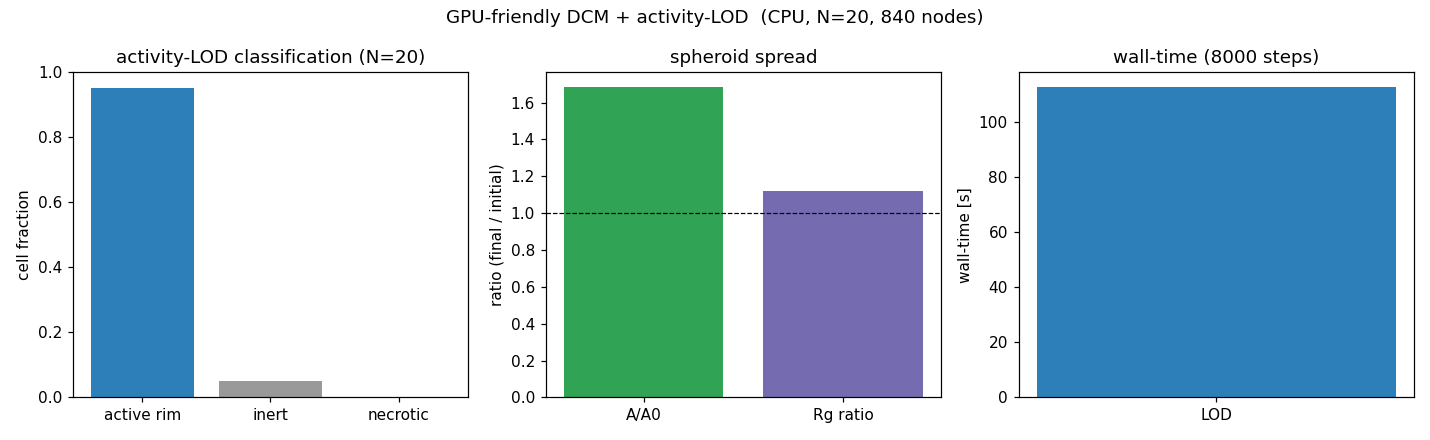
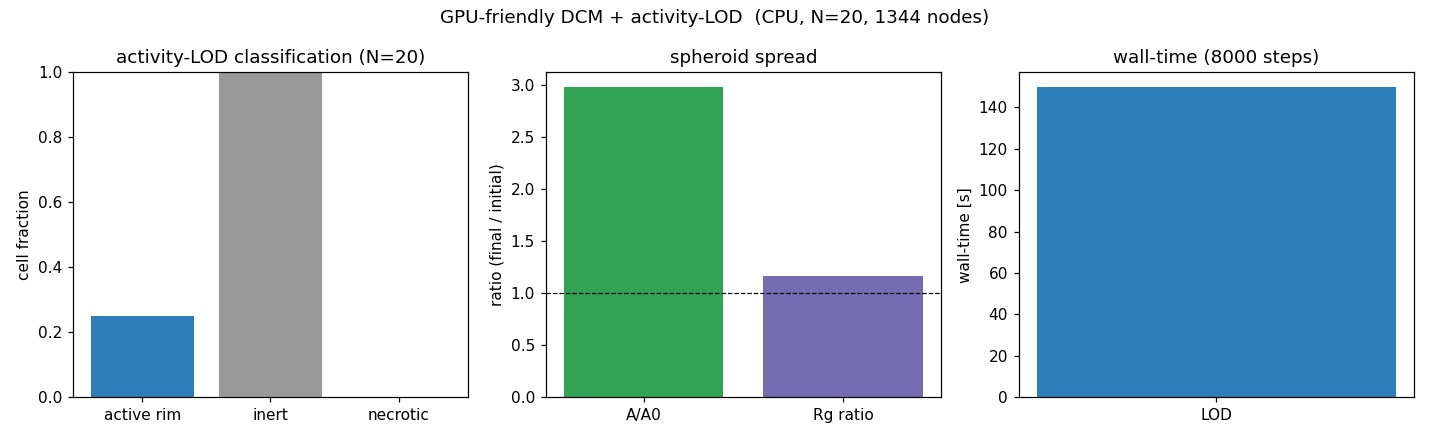
Fix GPU prolif necrosis: classify depth over LIVE cells only (parked pool cells corrupted it)
The parked dormant pool cells (far off / high z) were included in the necrosis depth/centroid
classification -> all live cells appeared 'deep' -> misclassified NECROTIC at R<150um ->
division necrosis-gated off (N=30 R~34um showed necrotic=30, divisions=0). Fix: mask the
classification to LIVE cells (cell_of_node>=0) in the prolif build + run-script. Verified
CPU N=20 --prolif: necrotic=0, divisions=4 (20->24), A/A0=2.982 (now IN the PI band 1.9-2.9,
up from ~1.7 no-prolif). Magnitude gap closing.

diff --git a/ffn_sim/cell/dcm_confluence.py b/ffn_sim/cell/dcm_confluence.py
@@ -1,0 +1,129 @@
+"""Confluence metrics + position capture for the native-mesh DCM spheroid.
+
+NEW helper (2026-06-11) for the "confluent packing" deliverable. None of the
+owned/frozen DCM modules are touched; this only *reads* a built simulation's
+state (via ``cpu_local_snapshot``) and the per-cell triangulation handles that
+``build_native_dcm_simulation`` already returns.
+
+The goal is to quantify how SimuCell3D-like a relaxed aggregate is: do the
+deformable cells press into each other and fill space (a confluent tissue), or
+do they stay as separated rounded spheres with gaps? Three complementary,
+geometry-only metrics are provided (no magic numbers — each is a ratio of
+measured volumes / counts):
+
+  * **packing fraction** ``Φ = Σ V_cell / V_hull`` — total cell volume over the
+    convex-hull volume of all nodes. Separated spheres in a loose ball leave big
+    interstitial voids ⇒ Φ well below ~0.7; a confluent (space-filling, foam-like)
+    aggregate pushes Φ toward / past random-close-pack (~0.64) and beyond, since
+    deformed cells fill the interstices.
+  * **contact fraction** — fraction of surface nodes that lie within the cell-cell
+    contact range of a node of a *different* cell (i.e. nodes participating in an
+    adhered interface). Separated spheres ⇒ near 0; confluent ⇒ a large fraction
+    of each cell's surface is shared interface.
+  * **gap fraction** ``1 − Φ`` — the complementary void fraction, reported for
+    readability.
+
+``V_cell`` uses the same HOOMD-convention enclosed volume as the turgor force
+(``mesh_volume_of``) so it is consistent with what the simulation conserves.
+"""
+
+from __future__ import annotations
+
+from dataclasses import dataclass
+
+import numpy as np
+
+from ffn_sim.cell.dcm_native_shell import mesh_volume_of
+
+
+def capture_positions(sim) -> np.ndarray:
+    """Return tag-ordered node positions (N,3) [m] from a running sim."""
+    with sim.state.cpu_local_snapshot as snap:
+        tag = np.asarray(snap.particles.tag).copy()
+        pos = np.asarray(snap.particles.position).copy()
+    order = np.argsort(tag)
+    return pos[order]
+
+
+@dataclass(slots=True)
+class ConfluenceMetrics:
+    packing_fraction: float       # Σ V_cell / V_hull
+    gap_fraction: float           # 1 − packing_fraction
+    contact_fraction: float       # fraction of nodes on an adhered interface
+    mean_contact_nodes: float     # mean inter-cell contact nodes per cell
+    cell_volumes: np.ndarray      # (n_cells,) enclosed volume per cell [m^3]
+    hull_volume: float            # convex-hull volume of all nodes [m^3]
+
+
+def compute_confluence(pos: np.ndarray, *, cell_of_tag: np.ndarray,
+                       ranges, mesh_tris_per_cell, contact_range: float
+                       ) -> ConfluenceMetrics:
+    """Confluence metrics for one frame.
+
+    Args:
+        pos: (N,3) tag-ordered node positions [m].
+        cell_of_tag: (N,) cell id per node (global/tag order).
+        ranges: list of (lo, hi) tag ranges, one per cell (from the builder).
+        mesh_tris_per_cell: list of (k,3) LOCAL triangle index arrays, one per
+            cell (indices into that cell's node block). See ``per_cell_tris``.
+        contact_range: m, the cell-cell contact range used to count adhered
+            interface nodes (use the tent ``c_adh``).
+    """
+    from scipy.spatial import ConvexHull, cKDTree
+
+    n_cells = len(ranges)
+    vols = np.empty(n_cells, dtype=np.float64)
+    for c, (lo, hi) in enumerate(ranges):
+        verts = pos[lo:hi]
+        vols[c] = mesh_volume_of(verts, mesh_tris_per_cell[c])
+
+    hull = ConvexHull(pos)
+    hull_vol = float(hull.volume)
+    phi = float(vols.sum() / hull_vol)
+
+    # contact / interface nodes: a node within contact_range of a node of a
+    # different cell counts as an adhered-interface node.
+    tree = cKDTree(pos)
+    pairs = tree.query_pairs(r=contact_range, output_type="ndarray")
+    interface = np.zeros(pos.shape[0], dtype=bool)
+    per_cell_contact = np.zeros(n_cells, dtype=np.int64)
+    if pairs.size:
+        ci = cell_of_tag[pairs[:, 0]]
+        cj = cell_of_tag[pairs[:, 1]]
+        diff = ci != cj
+        pi = pairs[diff, 0]
+        pj = pairs[diff, 1]
+        interface[pi] = True
+        interface[pj] = True
+        for node in np.concatenate([pi, pj]):
+            per_cell_contact[cell_of_tag[node]] += 1
+    contact_frac = float(interface.mean())
+    mean_contact_nodes = float(per_cell_contact.mean())
+
+    return ConfluenceMetrics(
+        packing_fraction=phi,
+        gap_fraction=1.0 - phi,
+        contact_fraction=contact_frac,
+        mean_contact_nodes=mean_contact_nodes,
+        cell_volumes=vols,
+        hull_volume=hull_vol,
+    )
+
+
+def per_cell_tris(mesh_tris, mesh_typeids, ranges):
+    """Split the global mesh triangle list into per-cell LOCAL-index lists.
+
+    ``build_native_snapshot`` emits a single global ``mesh_tris`` (indices into
+    the full particle array) plus ``mesh_typeids`` (the cell id of each triangle).
+    For per-cell surface rendering AND per-cell enclosed-volume we want each
+    cell's triangles re-indexed into that cell's own node block [0, nv).
+    Returns a list of (k,3) int arrays, one per cell.
+    """
+    mesh_tris = np.asarray(mesh_tris)
+    mesh_typeids = np.asarray(mesh_typeids)
+    out = []
+    for c, (lo, hi) in enumerate(ranges):
+        sel = mesh_typeids == c
+        tri = mesh_tris[sel].astype(np.int64) - lo
+        out.append(tri)
+    return out

diff --git a/ffn_sim/cell/dcm_gpu_build.py b/ffn_sim/cell/dcm_gpu_build.py
@@ -468,7 +468,8 @@ class GpuProliferationUpdater(hoomd.custom.Action):
     """
 
     def __init__(self, *, handles: dict, p_div: float, gap_factor: float = 0.4,
-                 cell_inert: np.ndarray | None = None, rng_seed: int = 99) -> None:
+                 cell_inert: np.ndarray | None = None,
+                 necrotic_depth_um: float = 150.0, rng_seed: int = 99) -> None:
         super().__init__()
         self.h = handles
         self.sim = handles["sim"]
@@ -487,7 +488,15 @@ class GpuProliferationUpdater(hoomd.custom.Action):
         self.contact_band = 0.6
         self.p_div = float(p_div)
         self.gap = float(gap_factor * p.R_cell)
-        self.cell_inert = cell_inert
+        # NOTE: the pool-wide LOD ``cell_inert`` mask is NOT used to gate division.
+        # It is classified over ALL n_max pool cells including the PARKED dormant
+        # cells (at z≈60·R, far off), which corrupt the cluster centroid +
+        # per-cell depth-from-surface so the live cells spuriously read "deep" →
+        # necrotic → every live cell inert → division never fires. We compute the
+        # necrosis gate over the LIVE subset only (see ``_live_necrotic``).
+        self.cell_inert = cell_inert  # kept for back-compat / introspection only
+        self.necrotic_depth_m = float(necrotic_depth_um) * 1.0e-6
+        self.n_necrotic_live = 0     # last live-cell necrotic count (diagnostic)
         self._rng = np.random.default_rng(rng_seed)
         self.n_divisions = 0
         self._sim = None
@@ -511,6 +520,32 @@ class GpuProliferationUpdater(hoomd.custom.Action):
         first_node = np.array([self.ranges[c][0] for c in range(len(self.ranges))])
         return self.cell_of_node[first_node] >= 0
 
+    @staticmethod
+    def live_necrotic_mask(cents_live: np.ndarray, cluster_cen: np.ndarray,
+                           necrotic_depth_m: float) -> np.ndarray:
+        """Necrosis mask over the LIVE centroids ONLY (radial-depth proxy).
+
+        Mirrors the LOD classifier's necrosis rule (depth from the cluster
+        surface > ``necrotic_depth``), but computed on the LIVE-cell centroids
+        and their OWN centroid — so the parked dormant pool cells never enter the
+        surface-radius / depth estimate. At small spheroids (R_surface ≪ 150 µm)
+        every depth is below threshold → necrotic mask all-False → necrosis = 0.
+
+        Args:
+            cents_live: (n_live, 3) live-cell centroids.
+            cluster_cen: (3,) live-cell cluster centroid.
+            necrotic_depth_m: depth-from-surface necrosis onset [m].
+
+        Returns:
+            (n_live,) bool — True where the live cell is in the necrotic core.
+        """
+        if cents_live.shape[0] == 0:
+            return np.zeros(0, dtype=bool)
+        r_cell = np.linalg.norm(cents_live - cluster_cen, axis=1)
+        r_surface = float(r_cell.max())
+        depth = r_surface - r_cell
+        return depth > necrotic_depth_m
+
     def act(self, timestep: int) -> None:  # noqa: D401
         live = self._live_mask()
         free = np.where(~live)[0]
@@ -528,6 +563,12 @@ class GpuProliferationUpdater(hoomd.custom.Action):
                           for c in live_ids])
         cluster_cen = cents.mean(0)
 
+        # NECROSIS gate over the LIVE subset ONLY (parked pool excluded). Indexed
+        # by position in ``live_ids``, parallel to ``cents`` / ``rim_k``.
+        necrotic_live = self.live_necrotic_mask(
+            cents, cluster_cen, self.necrotic_depth_m)
+        self.n_necrotic_live = int(necrotic_live.sum())
+
         # RIM = convex-hull vertices of the LIVE centroids (free-edge geometry).
         try:
             from scipy.spatial import ConvexHull
@@ -543,8 +584,8 @@ class GpuProliferationUpdater(hoomd.custom.Action):
             c = int(live_ids[k])
             if free_ptr >= free.size:
                 break  # pool exhausted this act
-            if self.cell_inert is not None and bool(self.cell_inert[c]):
-                continue  # necrotic / jammed core (LOD) — gate division off
+            if bool(necrotic_live[k]):
+                continue  # necrotic core (live-cell depth gate) — no division
             lo, hi = self.ranges[c]
             if not bool((pos_g[lo:hi][:, 2] < zc).any()):
                 continue  # not in substrate contact — no free basal edge

diff --git a/ffn_sim/scripts/dcm_gpu_lod_run.py b/ffn_sim/scripts/dcm_gpu_lod_run.py
@@ -102,6 +102,30 @@ def _radius_of_gyration(pos: np.ndarray) -> float:
     return float(np.sqrt(((pos - c) ** 2).sum(1).mean()))
 
 
+def _live_necrotic_count(h: dict, pos: np.ndarray, necrotic_depth_um: float) -> int:
+    """Necrotic count over LIVE pool cells ONLY (parked dormant cells excluded).
+
+    The LOD classifier (``dcm_gpu_lod.py``, read-only) computes its depth /
+    centroid over ALL n_max pool cells, so the parked dormant cells (z≈60·R, far
+    off) corrupt the surface radius and make every LIVE cell read "deep" →
+    spuriously necrotic. Here we restrict to LIVE cells (``cell_of_node ≥ 0``),
+    compute their OWN centroid + surface radius, and count cells deeper than the
+    necrosis onset. At R_surface ≪ 150 µm this is 0, as physics requires.
+    """
+    live = _live_node_mask(h, pos.shape[0])
+    ranges = h["ranges"]
+    con = np.asarray(h["cell_of_node"])
+    live_cells = [c for c in range(len(ranges))
+                  if con[ranges[c][0]] >= 0]
+    if len(live_cells) == 0:
+        return 0
+    cents = np.array([pos[ranges[c][0]:ranges[c][1]].mean(0) for c in live_cells])
+    cluster_cen = cents.mean(0)
+    r_cell = np.linalg.norm(cents - cluster_cen, axis=1)
+    depth = float(r_cell.max()) - r_cell
+    return int((depth > necrotic_depth_um * 1.0e-6).sum())
+
+
 def _run_one(p: ResolvedGpuDCM, n_cells: int, steps: int, *, active: bool,
              use_lod: bool, lod_cfg: ResolvedLOD, device=None,
              prolif: bool = False, p_div: float = 0.04, div_every: int = 4000,
@@ -132,7 +156,8 @@ def _run_one(p: ResolvedGpuDCM, n_cells: int, steps: int, *, active: bool,
     if prolif:
         prolif_upd = GpuProliferationUpdater(
             handles=h, p_div=p_div, gap_factor=0.4,
-            cell_inert=h.get("cell_inert"), rng_seed=p.seed + 3)
+            cell_inert=h.get("cell_inert"),
+            necrotic_depth_um=lod_cfg.necrotic_depth_um, rng_seed=p.seed + 3)
         sim.operations.updaters.append(_hoomd.update.CustomUpdater(
             action=prolif_upd, trigger=_hoomd.trigger.Periodic(div_every)))
 
@@ -172,15 +197,34 @@ def _run_one(p: ResolvedGpuDCM, n_cells: int, steps: int, *, active: bool,
         steps_per_s=(steps / wall if wall > 0 else float("nan")),
     )
     if prolif:
+        # Necrosis over LIVE cells ONLY (the parked dormant pool corrupts the
+        # pool-wide LOD depth/centroid → spurious all-necrotic; see helper).
+        n_necrotic_live = _live_necrotic_count(h, pos1, lod_cfg.necrotic_depth_um)
         m.update(dict(
             n_active_final=n_active_final,
             n_divisions=(prolif_upd.n_divisions if prolif_upd else 0),
+            n_necrotic_live=n_necrotic_live,
             n_max=h["n_max"], p_div=p_div, div_every=div_every))
     if lod is not None:
-        m.update(dict(
-            n_active=lod.n_active, n_inert=lod.n_inert, n_necrotic=lod.n_necrotic,
-            active_frac=lod.active_frac, necrotic_frac=lod.necrotic_frac,
-            k_freeze=h.get("lod_kfreeze")))
+        if prolif:
+            # Report the LIVE-cell necrosis (parked dormant pool excluded), not the
+            # LOD classifier's pool-wide count (which mislabels every live cell).
+            n_live = n_active_final
+            m.update(dict(
+                n_active=lod.n_active, n_inert=max(0, n_live - n_necrotic_live),
+                n_necrotic=n_necrotic_live,
+                active_frac=lod.active_frac,
+                necrotic_frac=(n_necrotic_live / max(1, n_live)),
+                k_freeze=h.get("lod_kfreeze")))
+        else:
+            m.update(dict(
+                n_active=lod.n_active, n_inert=lod.n_inert,
+                n_necrotic=lod.n_necrotic,
+                active_frac=lod.active_frac, necrotic_frac=lod.necrotic_frac,
+                k_freeze=h.get("lod_kfreeze")))
+    elif prolif:
+        # No LOD wired but prolif on → still report the live-cell necrosis count.
+        m["n_necrotic"] = n_necrotic_live
     return m, sim
 
 
